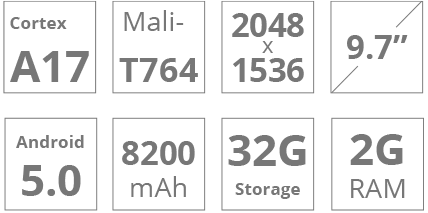
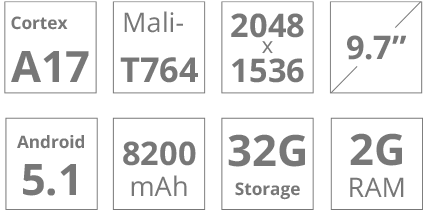
add new product

diff --git a/recpad402.html b/recpad402.html
@@ -80,13 +80,15 @@
 	<div class="sub_nav visible-md visible-lg">
 		<div class="container">
 			<div class="row ">
-				<ul class="col-md-10 col-md-offset-2 visible-md visible-lg">
+				<div class="col-md-2">
+					<p class="txt--primary_on_light nav__product_title">RecPad 402</p>
+				</div>
+				<ul class="col-md-10 visible-md visible-lg">
 					<li class="pull-right"><a class="txt--primary_on_light contact" href="#contact"><p class="nav__txt">PREORDER</p></a></li>
 					<li class="pull-right"><a class="txt--primary_on_light specs" href="#specs"><p class="nav__txt">SPECS</p></a></li>
-					<li class="pull-right"><a class="txt--primary_on_light battery" href="#battery"><p class="nav__txt">BATTERY</p></a></li>
+					<li class="pull-right"><a class="txt--primary_on_light manufacturing" href="#manufacturing"><p class="nav__txt">MANUFACTURING</p></a></li>
 					<li class="pull-right"><a class="txt--primary_on_light display" href="#display"><p class="nav__txt">DISPLAY</p></a></li>
-					<li class="pull-right"><a class="txt--primary_on_light gpu" href="#gpu"><p class="nav__txt">GPU</p></a></li>
-					<li class="pull-right"><a class="txt--primary_on_light cpu" href="#cpu"><p class="nav__txt">CPU</p></a></li>
+					<li class="pull-right"><a class="txt--primary_on_light performance" href="#performance"><p class="nav__txt">PERFORMANCE</p></a></li>
 <!-- 					<li class="pull-right"><a class="txt--primary_on_dark overview" href="#overview"><p class="nav__txt">OVERVIEW</p></a></li> -->
 				</ul>
 			</div>
@@ -101,100 +103,71 @@
 				<div class="margin--element_top_lg hidden-sm hidden-xs">&ensp;</div>				
 				
 				<div class="row">
-					<div class="col-md-6">
-						<p class="txt--primary_on_light txt--xl txt--heading">RecPad</p>
+					<div class="col-md-4">
+						<p class="text-center visible-md visible-lg" style="margin-top:65px;"><strike class="txt--primary_on_light txt--bold">MSRP $179</strike></p>
+						<p class="txt--primary_on_light txt--lg txt--heading visible-xs visible-sm ">RecPad 402</p>
 					</div>
-					<div class="col-md-6">
+					<div class="col-md-8">
 						<a class="contact btn btn--highlight" style="margin-top:60px;" href="#contact"><p class=" ">Preorder for $199 </p></a>
-						<p class="text-center"><strike class="txt--primary_on_light txt--bold">MSRP $249</strike></p>
+						<p>
+						<p class="text-center visible-xs visible-sm"><strike class="txt--primary_on_light txt--bold">MSRP $179</strike></p>
 					</div>
 				</div>
 				
-				<img src="img/hero_specs.png" class="img-responsive margin--element_top" alt="Menu Button">
+				<img src="img/tablet/recpad402/hero_specs.png" class="img-responsive margin--element_top" alt="Menu Button">
 			</div>
 			<div class="col-lg-8 col-md-7 margin--element_top_xs">
 				<div class="margin--element_top_lg hidden-md hidden-lg">&ensp;</div>	
-				<img src="img/hero.png" class="img-responsive pull-right" alt="Menu Button">
+				<img src="img/tablet/recpad402/hero.jpg" class="img-responsive pull-right" alt="Menu Button">
 			</div>
 		</div>
 	</div>
 
-	<div class="background--differentiator padding--element_lg">
+	<div id="performance" class="background--differentiator padding--element_lg">
 		<div class="container">
 			<div class="row">
 				<div class="col-md-12">
-					<h1 class="text-center txt--primary_on_light txt--title">Tablet with sophisticated manufacturing process.</h1>
-					<img src="img/engineering.png" class="img-responsive center-block margin--element_top" alt="Menu Button">
+					<h1 class="text-center txt--primary_on_light txt--title">Small size with powerful heart</h1>
 					<div class="row">
 						<div class="col-md-8 col-md-offset-2 margin--element_top">
-							<p>We want to create an affordable alernatives to expensive tablets like iPad, but we still put serious engineering thought into creating a body. The RecPad frame is the result of 13 carefully designed high-precision manufacturing processes. Using advanced engineering techniques and a keen artistic sense to ensure every last detail is technically and aesthetically perfect.</p>						
+							<p>As the mini version of RecPad 405, RecPad 402 has exactly the same CPU and GPU. At 1.8GHz, Quad-Core Cortex A17 processor is the solution to your high CPU performance needs. That’s not all, thanks to the ARM Mali-T764 GPU and outstanding optimization at both the hardware and software level, now you can enjoy silky-smooth frame rates, whether you’re playing the newest 3D games or viewing HD images and videos.</p>						
 						</div>
 					</div>
+					<img src="img/tablet/recpad402/performance.jpg" class="img-responsive center-block margin--element_top" alt="High performance tablet">					
 				</div>
 			</div>
 		</div>
 	</div>
 
-	<div id="cpu" class="container margin--section_top margin--section_bottom">
+	<div id="display" class="container margin--section_top margin--section_bottom">
 		<div class="row">
-			<div class="col-md-12">
-				<h1 class="text-center txt--primary_on_light txt--title">Powerful 1.8GHz  Quad-Core Cortex A17  CPU</h1>
+			<div class="col-md-8 col-sm-6">
+				<div class="margin--element_top_lg visible-md visible-lg">&ensp;</div>	
+				<div class="margin--element_top_lg visible-md visible-lg">&ensp;</div>					
+				<h2 class="text-center txt--primary_on_light txt--title">7.9” Retina high resolution display</h2>
 				<div class="row">
 					<div class="col-md-8 col-md-offset-2 margin--element_top">
-						<p>RecPad is built around 1.8GHz  Quad-Core Cortex A17  CPU, which improves performance from 2.5 DMIPS/Mhz to 3.3 DMIPS/MHz than its predecessor, it is nearly 50% faster, in theory, compared to other CPUs when it comes to CPU performance.</p>						
+						<p>Games, e-books, and videos are more vibrant, clearer and bigger than ever on RecPad 402’s 7.9” fully laminated high resolution display with 2048x1536 resolution and 326 PPI, which delivers stunning color consistency from almost any angle.</p>						
 					</div>
 				</div>
-				<img src="img/cpu.png" class="img-responsive center-block margin--element_top" alt="Menu Button">
-				<img src="img/cpu_info.png" class="img-responsive center-block margin--element_top" alt="Menu Button">
+			</div>
+			<div class="col-md-4 col-sm-6">
+				<img src="img/tablet/recpad402/display.jpg" class="img-responsive center-block margin--element_top" alt="Menu Button">
 			</div>
 		</div>
 	</div>
 
-	<div id="gpu" class="background--differentiator padding--element_lg">
+	<div id="manufacturing" class="background--differentiator padding--element_lg">
 		<div class="container">
 			<div class="row">
 				<div class="col-md-12">
-					<h1 class="text-center txt--primary_on_light txt--title">ARM Mali-T764 GPU</br> Tablet with the 3D rendering capabilities of a desktop</h1>
+					<h2 class="text-center txt--primary_on_light txt--title">Simplicity is hidden complexity.</h2>
 					<div class="row">
 						<div class="col-md-8 col-md-offset-2 margin--element_top">
-							<p>With 400% the energy efficiency of the ARM Mali-T604 GPU, the ARM Mali-T760 GPU promises to deliver stunning graphics quality without compromising on power consumption. An advanced, coherent L2 Cache Interconnect ensures that the ARM Mali-T760 GPU can scale effectively to its full 16 cores, which enables the ARM Mali-T760 GPU to deliver images in games faster and more efficiently.</p>						
+							<p>RecPad 402 draws on nuanced thinking and precision artisanship to create the perfection of simplicity and beauty. Whether in software or hardware, we allow insightful design to speak for itself.</p>						
 						</div>
 					</div>
-					<img src="img/gpu.png" class="img-responsive center-block margin--element_top" alt="Menu Button">
-
-				</div>
-			</div>
-		</div>
-	</div>
-
-	<div id="display" class="container margin--section_top">
-		<div class="row">
-			<div class="col-md-12">
-				<h1 class="text-center txt--primary_on_light txt--title">High color-saturation with intense, vivid colours</h1>
-				<img src="img/display_1.png" class="img-responsive center-block margin--element_top" alt="Menu Button">
-
-				<h2 class="text-center txt--primary_on_light txt--title margin--section_top">Same Retina display as iPad</h2>
-				<div class="row">
-					<div class="col-md-8 col-md-offset-2 margin--element_top">
-						<p>RecPad uses the same Retina display as iPad, with a resolution of 2046 x 1536. We make the pixels under your fingertip more brilliant. Whether you’re looking at photos, watching videos, or using exciting apps, RecPad delivers vivid colors.</p>						
-					</div>
-				</div>
-				<img src="img/display_2.png" class="img-responsive center-block margin--element_top" alt="Menu Button">
-			</div>
-		</div>
-	</div>
-
-	<div id="battery" class="background--differentiator padding--element_lg">
-		<div class="container">
-			<div class="row">
-				<div class="col-md-12">
-					<h1 class="text-center txt--primary_on_light txt--title"> 10-hour battery life</h1>
-					<div class="row">
-						<div class="col-md-8 col-md-offset-2 margin--element_top">
-							<p>RecPad has an impressive 9500 mAh battery, that kept this tablet ticking for 10 hours, but it’s not the only reason to love your RecPad. This 10-inch tablet is only 7.5 mm thick and weighs only 1.19 lb.</p>						
-						</div>
-					</div>
-					<img src="img/battery.png" class="img-responsive center-block margin--element_top" alt="Menu Button">
+					<img src="img/tablet/recpad402/manufacturing.jpg" class="img-responsive center-block margin--element_top" alt="Menu Button">
 
 				</div>
 			</div>
@@ -205,7 +178,7 @@
 		<div class="row">
 			<div class="col-md-12">
 				<h1 class="text-center txt--primary_on_light txt--title">Specification</h1>
-				<img src="img/specs.png" class="img-responsive center-block margin--element_top" alt="Menu Button">
+				<img src="img/tablet/recpad402/specs.jpg" class="img-responsive center-block margin--element_top" alt="Menu Button">
 			</div>
 		</div>
 
@@ -216,10 +189,10 @@
 						<p class="txt--lg txt--primary_on_light">Dimensions and Weight</p>
 					</div>
 					<div class="col-md-7">
-						<p class="txt--lg">Width: 6.6”(168mm)</p>
-						<p class="txt--lg">Height: 9.4”(240mm)</p>
-						<p class="txt--lg">Depth: 0.29”(7.6mm)</p>
-						<p class="txt--lg">Weight: 1.19lbs(540g)</p>
+						<p class="txt--lg">Width: 5.3”(134mm)</p>
+						<p class="txt--lg">Height: 7.8”(198.7mm)</p>
+						<p class="txt--lg">Depth: 0.29”(7.5mm)</p>
+						<p class="txt--lg">Weight: 0.72lbs(330g)</p>
 					</div>
 				</div>
 				
@@ -230,7 +203,7 @@
 						<p class="txt--lg txt--primary_on_light">OS</p>
 					</div>
 					<div class="col-md-7">
-						<p class="txt--lg">Android 5.0</p>
+						<p class="txt--lg">Android 4.4</p>
 					</div>
 				</div>
 
@@ -275,7 +248,7 @@
 						<p class="txt--lg txt--primary_on_light">Battery</p>
 					</div>
 					<div class="col-md-7">
-						<p class="txt--lg">8200mAh/4.35V</p>
+						<p class="txt--lg">5600mAh/4.35V</p>
 					</div>
 				</div>
 
@@ -336,7 +309,7 @@
 					</div>
 					<div class="col-md-7">
 						<p class="txt--lg">Recording format: MP4</p>
-						<p class="txt--lg"> Recording screen: Support 1280*720 & 640*480 video recording</p>
+						<p class="txt--lg"> Recording screen:  Support 1080p@30fps video recording</p>
 					</div>
 				</div>
 
@@ -433,18 +406,9 @@
 	<footer class="box box--full_width box--primary">
 		<div class="container">
 			<div class="row">
-				<div class="pull-left margin--element_bottom_xs">
+				<div class="col-md-12 margin--element_bottom_xs">
 					<p class="footer__copyright text-center">Copyright © 2015, Rectonics, All rights reserved.</p>
 				</div>
-				<ul class="pull-right visible-md visible-lg">
-					<li class="pull-right"><a class="txt--primary_on_dark contact" href="#contact"><p class="nav__txt">PREORDER</p></a></li>
-					<li class="pull-right"><a class="txt--primary_on_dark specs" href="#specs"><p class="nav__txt">SPECS</p></a></li>
-					<li class="pull-right"><a class="txt--primary_on_dark battery" href="#battery"><p class="nav__txt">BATTERY</p></a></li>
-					<li class="pull-right"><a class="txt--primary_on_dark display" href="#display"><p class="nav__txt">DISPLAY</p></a></li>
-					<li class="pull-right"><a class="txt--primary_on_dark gpu" href="#gpu"><p class="nav__txt">GPU</p></a></li>
-					<li class="pull-right"><a class="txt--primary_on_dark cpu" href="#cpu"><p class="nav__txt">CPU</p></a></li>
-<!-- 					<li class="pull-right"><a class="txt--primary_on_dark overview" href="#overview"><p class="nav__txt">OVERVIEW</p></a></li>	 -->				
-				</ul>
 			</div>
 		</div>
 	</footer>
@@ -460,20 +424,15 @@
 
 	<script>	
 	//scroll animate
-	$(".overview").click(function(){
-	$('html,body').animate({scrollTop: $("#overview").offset().top},'slow');
+	$(".performance").click(function(){
+	$('html,body').animate({scrollTop: $("#performance").offset().top},'slow');
 	});
-	$(".cpu").click(function(){
-	$('html,body').animate({scrollTop: $("#cpu").offset().top},'slow');
-	});
-	$(".gpu").click(function(){
-	$('html,body').animate({scrollTop: $("#gpu").offset().top},'slow');
-	});
+
 	$(".display").click(function(){
 	$('html,body').animate({scrollTop: $("#display").offset().top},'slow');
 	});
-	$(".battery").click(function(){
-	$('html,body').animate({scrollTop: $("#battery").offset().top},'slow');
+	$(".manufacturing").click(function(){
+	$('html,body').animate({scrollTop: $("#manufacturing").offset().top},'slow');
 	});
 	$(".specs").click(function(){
 	$('html,body').animate({scrollTop: $("#specs").offset().top},'slow');

diff --git a/index.html b/index.html
@@ -80,7 +80,10 @@
 	<div class="sub_nav visible-md visible-lg">
 		<div class="container">
 			<div class="row ">
-				<ul class="col-md-10 col-md-offset-2 visible-md visible-lg">
+				<div class="col-md-2">
+					<p class="txt--primary_on_light nav__product_title">RecPad 405</p>
+				</div>
+				<ul class="col-md-10 visible-md visible-lg">
 					<li class="pull-right"><a class="txt--primary_on_light contact" href="#contact"><p class="nav__txt">PREORDER</p></a></li>
 					<li class="pull-right"><a class="txt--primary_on_light specs" href="#specs"><p class="nav__txt">SPECS</p></a></li>
 					<li class="pull-right"><a class="txt--primary_on_light battery" href="#battery"><p class="nav__txt">BATTERY</p></a></li>
@@ -101,12 +104,14 @@
 				<div class="margin--element_top_lg hidden-sm hidden-xs">&ensp;</div>				
 				
 				<div class="row">
-					<div class="col-md-6">
-						<p class="txt--primary_on_light txt--xl txt--heading">RecPad</p>
+					<div class="col-md-4">
+						<p class="text-center visible-md visible-lg" style="margin-top:65px;"><strike class="txt--primary_on_light txt--bold">MSRP $229</strike></p>
+						<p class="txt--primary_on_light txt--lg txt--heading visible-xs visible-sm ">RecPad 405</p>
 					</div>
-					<div class="col-md-6">
-						<a class="contact btn btn--highlight" style="margin-top:60px;" href="#contact"><p class=" ">Preorder for $199 </p></a>
-						<p class="text-center"><strike class="txt--primary_on_light txt--bold">MSRP $249</strike></p>
+					<div class="col-md-8">
+						<a class="contact btn btn--highlight" style="margin-top:60px;" href="#contact"><p class=" ">Preorder for $259 </p></a>
+						<p>
+						<p class="text-center visible-xs visible-sm"><strike class="txt--primary_on_light txt--bold">MSRP $229</strike></p>
 					</div>
 				</div>
 				
@@ -230,7 +235,7 @@
 						<p class="txt--lg txt--primary_on_light">OS</p>
 					</div>
 					<div class="col-md-7">
-						<p class="txt--lg">Android 5.0</p>
+						<p class="txt--lg">Android 5.1</p>
 					</div>
 				</div>
 

diff --git a/css/global.css b/css/global.css
@@ -458,6 +458,13 @@ article a{
 	margin-top: 10px;
 }
 
+.nav__product_title{
+	font-size: 16px;
+	font-weight: 700;
+
+	margin-top: 8px;
+}
+
 .icon_repad{
 	position: relative;
 	top: 5px;
